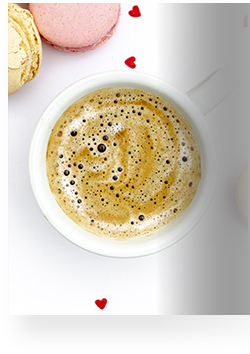
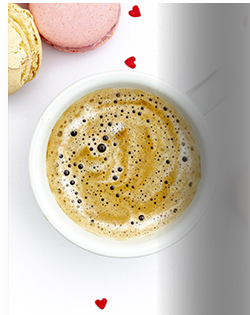
project

diff --git a/PSD3-MQ.css b/PSD3-MQ.css
@@ -1,0 +1,74 @@
+@media (min-width: 1200px) { 
+
+    /* first page  */
+
+    .get {
+        padding-left: 200px;
+    }
+
+    /* third page  */
+
+    .col-50 {
+        padding: 100px;
+    }
+    
+    /* forth page  */
+
+    .menus img {
+        height: 250px;
+        width: 340px;
+    }
+
+    .half img {
+        width: 250px;
+        height: 210px;
+    }
+
+    .menus {
+        display: flex;
+        padding: 80px;
+        padding-left: 270px;
+    }
+
+    /* sixth page  */
+
+    .COL-50 {
+        padding: 50px;
+    }
+
+    .vside {
+        padding: 70px;
+    }
+
+    .vside h1 {
+        font-size: 30px;
+    }
+
+    /* seventh page  */
+
+    .lables {
+        padding: 30px;
+    }
+   
+    input {
+        height: 50px;
+        width: 480px;
+    }
+    
+    .message input {
+        height: 200px;
+        width: 480px;
+    }
+    
+    /* eighth page  */
+
+    .eighth01 {
+        padding: 70px;
+    }
+
+    .footer {
+        gap: 30px;
+        font-size: 17px;
+     }
+
+ }

diff --git a/PSD-3.CSS b/PSD-3.CSS
@@ -8,7 +8,6 @@
     background-image: url(..//PROJECTS//IMAGE/Background\ \(2\).png);
     background-repeat: no-repeat;
     background-size: cover;
-    width: 100%;
     align-items: center;
     padding: 50px;
 }
@@ -152,10 +151,20 @@ ul {
     text-align: center;
 }
 
+.menus img {
+    width: 550px;
+    height: 360px;
+}
+
+.half img {
+    width: 220px;
+    height: 310px;
+}
+
 .menus {
     display: flex;
     padding: 70px;
-    padding-left: 160px;
+    padding-left: 200px;
 }
 
 .pagination {
@@ -362,9 +371,3 @@ input {
 .footer h3 {
     color: bisque;
 }
-
-@media (min-width: 1200px) { 
-
-
-
- }

diff --git a/PSD-3.HTML b/PSD-3.HTML
@@ -6,6 +6,7 @@
     <meta name="viewport" content="width=device-width, initial-scale=1.0">
     <title>PSD-3</title>
     <link rel="stylesheet" href="PSD-3.CSS">
+    <link rel="stylesheet" href="PSD3-MQ.css">
 </head>
 
 <body>
@@ -111,7 +112,7 @@
             <div>
                 <img src="../PROJECTS/IMAGE/Menu 2.png">
             </div>
-            <div>
+            <div class="half">
                 <img src="../PROJECTS/IMAGE/Menu 3.png">
             </div>
         </div>
